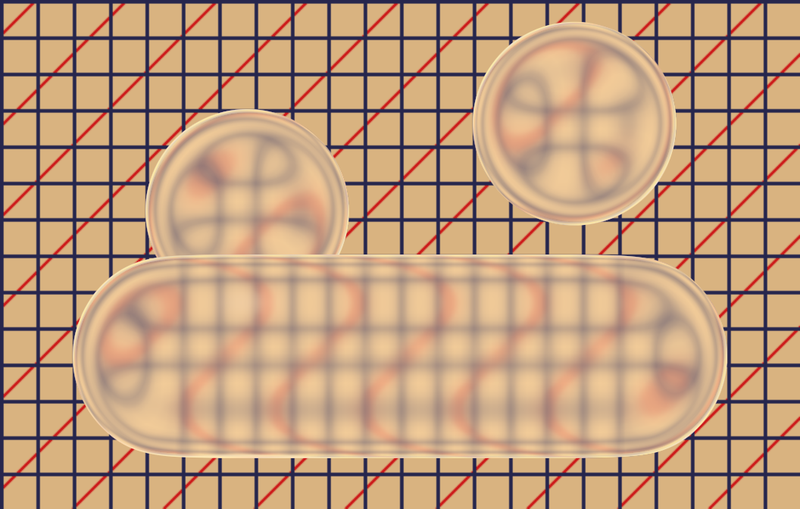
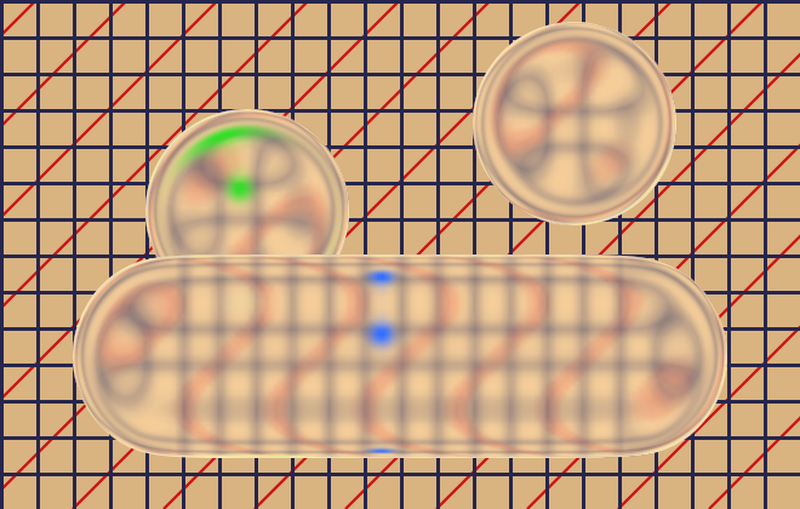
Glass built as Apple's: fixed-width bezel, sRGB tone, key/fill hairline
The look is now Apple's .clear, measured on probes in the iOS 26.5 simulator
and read from its running glassBackground filter:
- Blur: Gaussian sigma 1.65 pt, half as strong at the outline, before the lens.
- Lens: a quarter-circle bezel of fixed width (20 pt, at most 0.36 of the
  shorter side), shifting by min(S, 60) * (1 - sqrt(1 - (1 - e/H)^2)); the
  middle is flat.
- Tone: 0.075 + 1.04 * colour per sRGB channel.
- Hairline: two opposite lights, coloured by Apple's vibrant colour matrix.
- Linear projects: the frame copy is sRGB-encoded before its mips, so blur and
  tone work on encoded values as Apple's do; the uGUI layer is half float.

Against SwiftUI .glassEffect(.clear) on the same backdrop: RMSE 8.2/255 over
the glass (Gamma) and 8.1 (Linear), flat colours within 0.4/255 (Gamma) and
4/255 (Linear). README images re-shot on that board.

Settings: magnify, rimReach, rimPower, edgeReach, edgePower, sourceBlur,
contrast, brightness, tint, rimWhite and frost are replaced by bezelDepth,
bezelWidth, bezelFraction, frostEdge, lift and gain.

Claude-Session: https://claude.ai/code/session_01PPAzoT73Z5kgg6y5s4z1nc

diff --git a/Runtime/LiquidGlass.cs b/Runtime/LiquidGlass.cs
@@ -17,24 +17,19 @@ namespace UnityLiquidGlass
         public sealed class Look
         {
             [Tooltip("0 = a flat tinted pane, 1 = liquid glass.")] public float liquid = 1f;
-            [Tooltip("How much the middle is enlarged (1 = not at all).")] public float magnify = 1f;
-            [Tooltip("Where the outline samples, in half heights from the middle; below 0 = the far side, so the image folds back at the rim.")] public float rimReach = -1.5f;
-            [Tooltip("How tight to the edge the fold sits (higher = thinner rim).")] public float rimPower = 4f;
+            [Tooltip("How far in the outline shows the backdrop, points; capped at the shape's shorter side (Apple: 60).")] public float bezelDepth = 60f;
+            [Tooltip("The bezel's width along the outline, points; the middle inside it is flat (Apple: 20).")] public float bezelWidth = 20f;
+            [Tooltip("On small shapes the bezel is at most this share of the shorter side (Apple: 0.36).")] public float bezelFraction = .36f;
             [Tooltip("Multiplier on the whole lens (0 = flat glass).")] public float lensStrength = 1f;
             [Tooltip("Colour split where the glass bends (0 = none, as Apple's).")] public float dispersion = 0f;
-            [Tooltip("How much light scatters: 0 = clear, 1 = all of it blurred by frostRadius.")] public float frost = 1f;
-            [Tooltip("The frost blur's radius, points.")] public float frostRadius = 2.7f;
-            [Tooltip("The backdrop's own blur before the lens, relative to frostRadius.")] public float sourceBlur = .5f;
-            [Tooltip("How much blurred detail stands out from the glass around it.")] public float contrast = 1.3f;
-            [Tooltip("Colour strength of what the glass shows (vibrancy).")] public float saturation = 1.3f;
-            [Tooltip("What the glass shows is this much brighter.")] public float brightness = 1.1f;
-            [Tooltip("White mixed over the glass (0 = clear).")] public float tint = .04f;
-            [Tooltip("Light on the squeezed rim and the hairline on the outline.")] public float specular = 1.4f;
-            [Tooltip("Where the light comes from, degrees (0 = right, 90 = top).")] public float lightAngle = 135f;
-            [Tooltip("The rim's light takes the colour under the edge; this much of it is white instead.")] public float rimWhite = .25f;
-            [Tooltip("Right at the outline the fold reaches this far towards the far side (the rim shows the colours opposite it).")] public float edgeReach = -.2f;
-            [Tooltip("How thin that edge band is.")] public float edgePower = 60f;
-            [Tooltip("Apple's Clear / Tinted switch as a slider: 0 = .clear, 1 = .regular (whiter, softer, more saturated, a highlight on capsules).")] public float matte = 0f;
+            [Tooltip("The blur of what the glass shows: Gaussian sigma, points (Apple's .clear: 1.65).")] public float frostRadius = 1.65f;
+            [Tooltip("How much lighter the blur is at the outline than in the middle (Apple: 0.5).")] public float frostEdge = .5f;
+            [Tooltip("Added to every channel of what the glass shows, sRGB (Apple's .clear: 0.075).")] public float lift = .075f;
+            [Tooltip("What the glass shows is multiplied by this, sRGB (Apple's .clear: 1.04).")] public float gain = 1.04f;
+            [Tooltip("Colour strength of what the glass shows (1 = unchanged, as Apple's .clear).")] public float saturation = 1f;
+            [Tooltip("The hairline highlight on the outline (0 = none).")] public float specular = .78f;
+            [Tooltip("Where the hairline's key light comes from, degrees (0 = right, 90 = top); a fill light shines from the opposite side.")] public float lightAngle = 135f;
+            [Tooltip("Apple's Clear / Tinted switch as a slider: 0 = .clear, 1 = .regular (whiter, softer, a highlight on capsules).")] public float matte = 0f;
             [Tooltip("The soft highlight a .regular capsule catches over its left cap (scaled by matte).")] public float highlight = .13f;
         }
 
@@ -105,25 +100,22 @@ namespace UnityLiquidGlass
             var s = Settings;
             float matte = Mathf.Clamp01(s.matte), angle = s.lightAngle * Mathf.Deg2Rad;
             m.SetFloat("_Liquid", Mathf.Clamp01(s.liquid));
-            m.SetFloat("_Magnify", Mathf.Max(.1f, s.magnify));
-            m.SetFloat("_RimReach", s.rimReach);
-            m.SetFloat("_RimPower", Mathf.Max(1f, s.rimPower));
+            m.SetFloat("_BezelDepth", Mathf.Max(0f, s.bezelDepth));
+            m.SetFloat("_BezelWidth", Mathf.Max(.01f, s.bezelWidth));
+            m.SetFloat("_BezelFraction", Mathf.Max(.01f, s.bezelFraction));
             m.SetFloat("_LensStrength", s.lensStrength);
             m.SetFloat("_Dispersion", s.dispersion);
-            m.SetFloat("_Frost", Mathf.Clamp01(s.frost));
             m.SetFloat("_Specular", Mathf.Max(0f, s.specular));
-            // matte 1 is Apple's .regular, measured against .clear on the same grid: 47% whiter,
-            // blurred 2 points more, 1.4x as saturated, a highlight on capsules.
-            m.SetFloat("_Tint", 1f - (1f - Mathf.Clamp01(s.tint)) * (1f - .47f * matte));
-            m.SetFloat("_Brightness", Mathf.Max(0f, s.brightness));
-            m.SetFloat("_FrostRadius", Mathf.Max(0f, s.frostRadius) + 2f * matte);
-            m.SetFloat("_SourceBlur", Mathf.Max(0f, s.sourceBlur));
+            m.SetFloat("_Lift", s.lift);
+            m.SetFloat("_Gain", Mathf.Max(0f, s.gain));
+            m.SetFloat("_Saturation", Mathf.Max(0f, s.saturation));
+            m.SetFloat("_FrostEdge", Mathf.Clamp01(s.frostEdge));
+            // matte 1 approximates Apple's .regular over a light backdrop: its face matrix (black 0.5) and a
+            // blur 2.86x .clear's, read from the running filter, and a highlight on capsules. Apple's
+            // .regular also turns dark over dark backdrops; that is not modelled.
+            m.SetFloat("_Tint", .5f * matte);
+            m.SetFloat("_FrostRadius", Mathf.Max(0f, s.frostRadius) * (1f + 1.86f * matte));
             m.SetFloat("_Highlight", Mathf.Max(0f, s.highlight) * matte);
-            m.SetFloat("_Saturation", Mathf.Max(0f, s.saturation) + .4f * matte);
-            m.SetFloat("_Contrast", Mathf.Max(0f, s.contrast));
-            m.SetFloat("_RimWhite", Mathf.Clamp01(s.rimWhite));
-            m.SetFloat("_EdgeReach", s.edgeReach);
-            m.SetFloat("_EdgePower", Mathf.Max(1f, s.edgePower));
             m.SetVector("_LightDir", new Vector4(Mathf.Cos(angle), Mathf.Sin(angle)));
         }
     }

diff --git a/Runtime/LiquidGlassPass.cs b/Runtime/LiquidGlassPass.cs
@@ -177,16 +177,19 @@ namespace UnityLiquidGlass
                 { name = "Liquid glass frame (mips)", useMipMap = true, autoGenerateMips = true, filterMode = FilterMode.Trilinear, wrapMode = TextureWrapMode.Clamp };
             }
             ScreenCapture.CaptureScreenshotIntoRenderTexture(_frame);
-            Graphics.Blit(_frame, _mipped);   // the frost reads the mips
+            bool linear = QualitySettings.activeColorSpace == ColorSpace.Linear;
+            // The frost reads the mips, sRGB-encoded in both colour spaces (Layer pass 2).
+            if (linear) Graphics.Blit(_frame, _mipped, _layer, 2);
+            else Graphics.Blit(_frame, _mipped);
             LiquidGlass.Apply(_glass);
             _glass.SetTexture(SharpTex, _mipped);
             _glass.SetVector(GlassScreen, new Vector4(w, h, 0, 0));
             // The copy comes out upside down where the texture origin is the top (Metal, D3D, Vulkan).
             float flip = SystemInfo.graphicsUVStartsAtTop ? 1f : 0f;
-            bool linear = QualitySettings.activeColorSpace == ColorSpace.Linear;
             _layer.SetFloat(ToLinear, linear ? 1f : 0f);
 
-            var layer = ugui ? RenderTexture.GetTemporary(w, h, 0, RenderTextureFormat.ARGB32, RenderTextureReadWrite.Linear) : null;
+            // Linear values in 8 bits lose the darkest tones (the glass over black came out 0.051, not 0.075).
+            var layer = ugui ? RenderTexture.GetTemporary(w, h, 0, linear ? RenderTextureFormat.ARGBHalf : RenderTextureFormat.ARGB32, RenderTextureReadWrite.Linear) : null;
             RenderTexture.active = layer;
             if (ugui) GL.Clear(false, true, Color.clear);
             GL.PushMatrix();

diff --git a/README.md b/README.md
@@ -51,7 +51,14 @@ LiquidGlass.Settings.frostRadius = 4;    // softer
 LiquidGlass.Settings.lightAngle = 45;    // light from the top right
 ```
 
-Every field has a tooltip. The defaults were tuned against Apple's glass, with colour tuned on real game art; they are close to Apple's, not identical.
+Every field has a tooltip. The defaults are Apple's `.clear`, read from its running `glassBackground` filter in the iOS 26 simulator and checked on probes: the glass is built in Apple's order, from the same parts:
+
+1. The backdrop is blurred (Gaussian, σ 1.65 pt), lighter towards the outline.
+2. A bezel along the outline refracts it. Its width is fixed in points (20 pt, at most 0.36 of a small shape's shorter side) and its profile is a quarter circle. The middle is flat, with no magnification.
+3. One tone over what the glass shows: 0.075 + 1.04 × colour, per sRGB channel.
+4. A hairline lit by two opposite lights, in a colour taken from what lies under it.
+
+All of it works on sRGB-encoded values, as Apple's does, in Gamma and Linear projects alike.
 
 **Demo.** Package Manager → Liquid Glass → Samples → **Demo**. Add `LiquidGlassDemo` to an empty GameObject and press Play.
 
